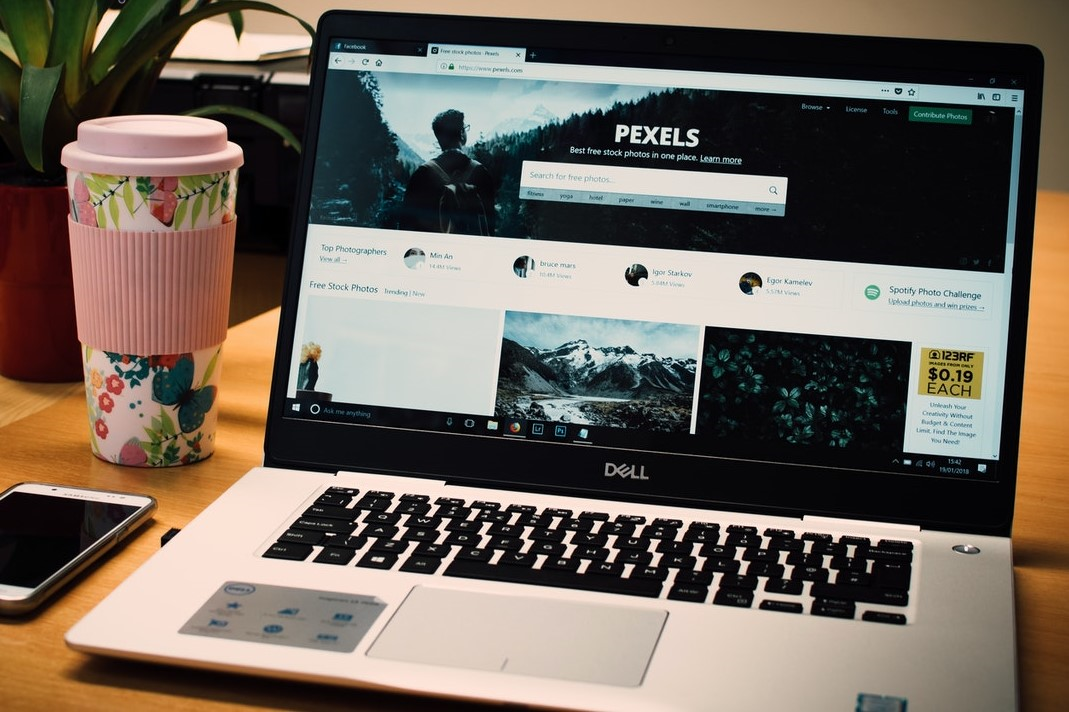
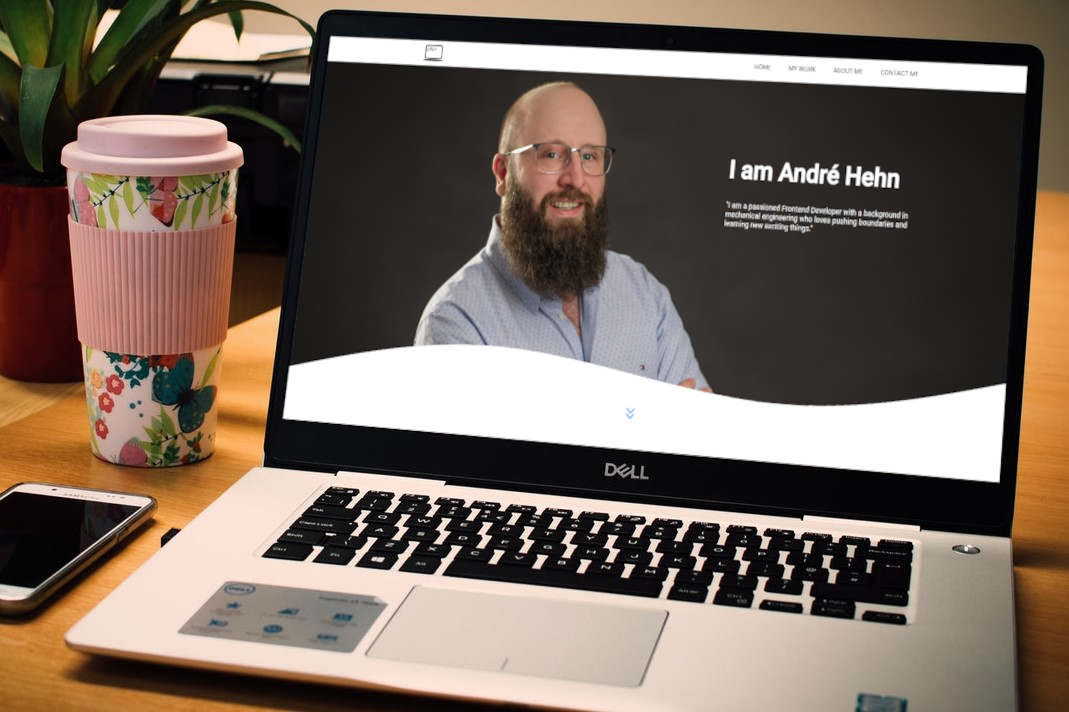
about me text and my work

diff --git a/src/app/headpicture/headpicture.component.html b/src/app/headpicture/headpicture.component.html
@@ -1,22 +1,20 @@
 <div class="head-picture-wrapper">
-    <!--<img class="head-picture" src="assets/img/header.png">-->
     <div class="base"></div>
     <img class="transition-picture" src="assets/img/transition.png">
     <div class="i-am">
         <h1>I am André Hehn</h1>
-        <p>Lorem ipsum dolor sit amet consectetur adipisicing elit. Dicta, enim perferendis voluptatibus porro fugit, ad
-            ex sequi quod, reiciendis praesentium iure provident! Repellat tempora earum consectetur, deleniti ex ab
-            nam?</p>
+        <p>"I am a passioned Frontend Developer with a background in mechanical engineering who loves pushing boundaries and learning new exciting things."</p>
     </div>
 
 </div>
 <div class="link-wrap">
-<a class="link link-arrowed" href="#mywork">
-    <svg class="arrow-icon" xmlns="http://www.w3.org/2000/svg" viewBox="0 0 32 32">
-        <g fill="none" stroke="var(--primary-color)" stroke-width="1.5" stroke-linejoin="round" stroke-miterlimit="10">
-            <circle class="arrow-icon-circle" cx="16" cy="16" r="15.12"></circle>
-        </g>
-    </svg>
-<img class="arrow-down bounce" src ="assets/img/arrowdown.png">
-</a>
+    <a class="link link-arrowed" href="#mywork">
+        <svg class="arrow-icon" xmlns="http://www.w3.org/2000/svg" viewBox="0 0 32 32">
+            <g fill="none" stroke="var(--primary-color)" stroke-width="1.5" stroke-linejoin="round"
+                stroke-miterlimit="10">
+                <circle class="arrow-icon-circle" cx="16" cy="16" r="15.12"></circle>
+            </g>
+        </svg>
+        <img class="arrow-down bounce" src="assets/img/arrowdown.png">
+    </a>
 </div>

diff --git a/src/app/myworks/myworks.component.ts b/src/app/myworks/myworks.component.ts
@@ -11,26 +11,34 @@ export class MyworksComponent implements OnInit {
       "name": "EL POLLO LOCO",
       "text": "With this little jump'n'run game i learned object oriented programming.",
       "src": "pollo.png",
-      "direction" :"left"
+      "direction": "left",
+      "github": "https://github.com/AndreHehn/portfolio",
+      "link": "https://andre-hehn.developerakademie.net/el_pollo_loco/"
     },
     {
       "name": "PORTFOLIO",
       "text": "This was my first angular project. While other projects were being coded, this project grew and was constantly improved.",
       "src": "portfolio.png",
-      "direction" :"right"
-    },
+      "direction": "right",
+      "github": "https://github.com/AndreHehn/el_pollo_loco",
+      "link": "#"
+    }/*,
     {
       "name": "RING OF FIRE",
       "text": "By programming this well-known drinking game, I improved my skills in Angular,especially creating animations and working with databases(in this case firebase from google). ",
       "src": "ringoffire.png",
-      "direction" :"left"
+      "direction": "left",
+      "github": "https://github.com/AndreHehn/ringoffire",
+      "link": ""
     },
     {
       "name": "CUSTOMER MANAGEMENT SYSTEM",
       "text": "With this little jump'n'run game i learned object oriented programming.",
       "src": "crm.png",
-      "direction" :"right"
-    }
+      "direction": "right",
+      "github": "",
+      "link": ""
+    }*/
   ];
   constructor() { }
 

diff --git a/src/app/aboutme/aboutme.component.html b/src/app/aboutme/aboutme.component.html
@@ -8,12 +8,13 @@
             <div class="about-left"><img src="assets/img/profile.png"></div>
             <div class="about-right">
 
-                    <p>Lorem ipsum dolor, sit amet consectetur adipisicing elit. Officia minus impedit porro minima
-                        facilis
-                        natus ducimus sed quia, corporis amet animi possimus dicta iste, eos voluptas ab quasi accusamus
-                        cumque.
-                    </p>
-                    <app-myskills></app-myskills>
+                <p>
+                    Since my youth, I've been interested in computers. During my first vocational training, I learned
+                    how to program CNC machines. I've always seen these things as a hobby or a kind of benefit while at
+                    work. After discovering all these things about myself, I decided to combine working on a computer
+                    with solving problems. My journey to becoming a web developer began shortly after.
+                </p>
+                <app-myskills></app-myskills>
 
             </div>
         </div>

diff --git a/src/app/work-item/work-item.component.html b/src/app/work-item/work-item.component.html
@@ -10,8 +10,8 @@
                 <h3>{{project.name}}</h3>
                 <p>{{project.text}}</p>
                 <div class="button-wrapper">
-                    <button class="button-alternative">show code</button>
-                    <button class="button-primary">try out</button>
+                    <a href="{{ project.github }}"><button class="button-alternative">show code</button></a>
+                    <a href="{{ project.link }}"><button class="button-primary">try out</button></a>
                 </div>
             </div>
         </div>

diff --git a/src/app/work-item/work-item.component.ts b/src/app/work-item/work-item.component.ts
@@ -6,7 +6,7 @@ import { Component, OnInit, Input } from '@angular/core';
   styleUrls: ['./work-item.component.scss']
 })
 export class WorkItemComponent implements OnInit {
-  @Input() project = { 'name': '', 'text': '', 'src': '', 'direction':'' };
+  @Input() project = { 'name': '', 'text': '', 'src': '', 'direction':'', 'github': '', 'link': '' };
 
 constructor() { }
 

diff --git a/src/app/aboutme/aboutme.component.scss b/src/app/aboutme/aboutme.component.scss
@@ -34,6 +34,7 @@
     p {
         margin-top: 0;
         max-width: 80%;
+        margin-bottom: 0;
     }
 
 
